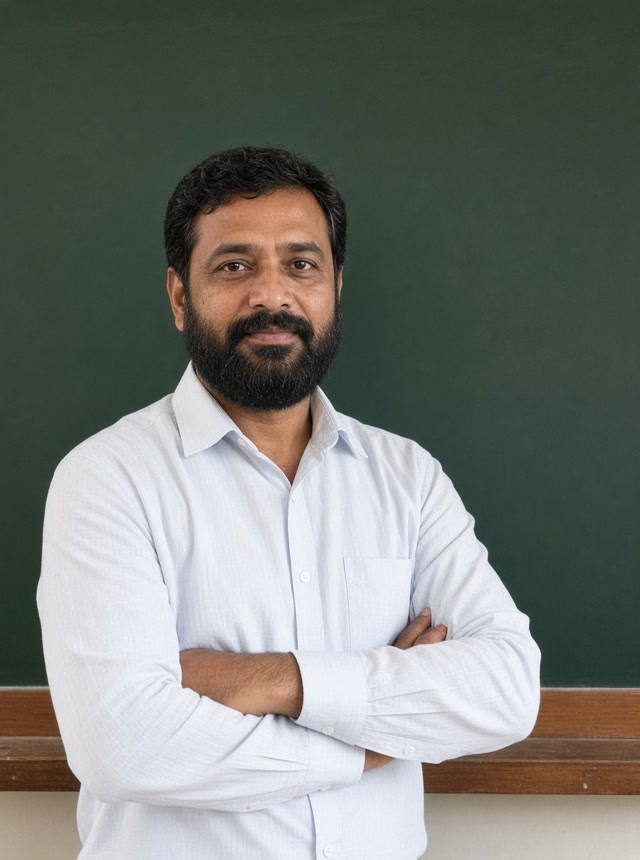
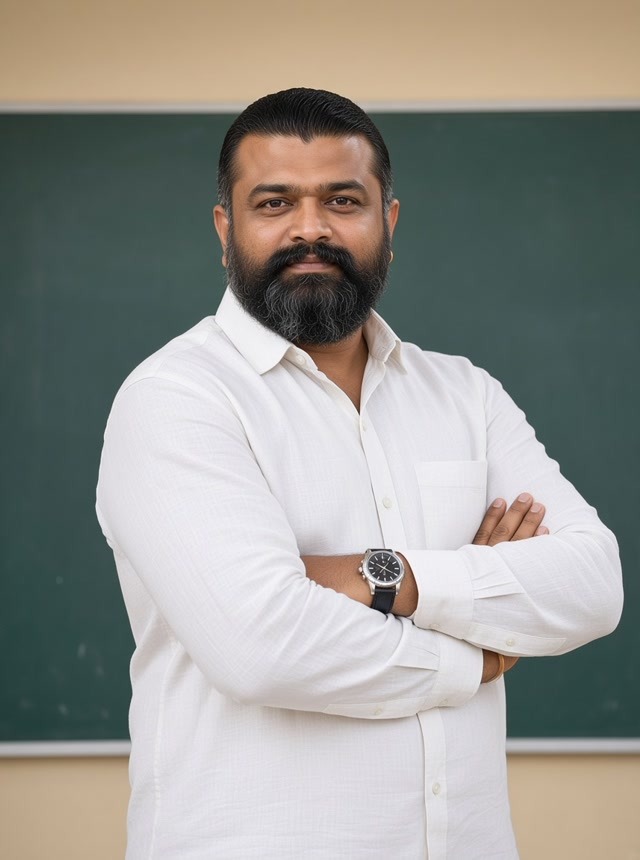
Refresh Aarav Mehta DP toward inspo skin realism (non-clone)
Replace the live portrait with a new mid-life Indian mentor photo matching inspo skin tone/phone realism while keeping a distinct face; bump cache to desk107 / v=4.

diff --git a/js/app.js b/js/app.js
@@ -808,7 +808,7 @@ const COVERS = {
 };
 
 const MENTORS = [
-  { name: "Aarav Mehta", role: "Full-time trader", tag: "Intraday", img: "/img/instructors/aarav-mehta.jpg?v=3" },
+  { name: "Aarav Mehta", role: "Full-time trader", tag: "Intraday", img: "/img/instructors/aarav-mehta.jpg?v=4" },
   { name: "Neha Kapoor", role: "Options specialist", tag: "Income strategies", img: "https://images.unsplash.com/photo-1544005313-94ddf0286df2?auto=format&fit=crop&w=640&h=860&q=80" },
   { name: "Vikram Singh", role: "Price action coach", tag: "Swing trading", img: "https://images.unsplash.com/photo-1506794778202-cad84cf45f1d?auto=format&fit=crop&w=640&h=860&q=80" },
   { name: "Ananya Rao", role: "Long-term investor", tag: "Portfolio", img: "https://images.unsplash.com/photo-1573496359142-b8d87734a5a2?auto=format&fit=crop&w=640&h=860&q=80" },
@@ -4893,6 +4893,7 @@ function traderIcon(kind) {
 /* cache-bust desk104: Aarav Mehta instructor DP /img/instructors/aarav-mehta.jpg?v=1 */
 /* cache-bust desk105: Aarav Mehta DP redo candidate-6 phone realism /img/instructors/aarav-mehta.jpg?v=2 */
 /* cache-bust desk106: Aarav Mehta DP beard+blackboard candidate-7 /img/instructors/aarav-mehta.jpg?v=3 */
+/* cache-bust desk107: Aarav Mehta DP inspo-vibe non-clone candidate-10 /img/instructors/aarav-mehta.jpg?v=4 */
 function traderCardHTML(m, i, opts = {}) {
   const title = String(m.role || m.tag || "Mentor").trim();
   const cloneAttrs = opts.clone ? ' tabindex="-1" aria-hidden="true"' : "";

diff --git a/account.html b/account.html
@@ -17,7 +17,7 @@
   <div id="site-header"></div>
   <main id="accountRoot" class="ld-page"></main>
   <div id="site-footer"></div>
-  <script src="/js/app.js?v=desk106" defer></script>
+  <script src="/js/app.js?v=desk107" defer></script>
   <script src="/js/lms.js?v=cert2" defer></script>
 </body>
 </html>

diff --git a/learning.html b/learning.html
@@ -17,7 +17,7 @@
   <div id="site-header"></div>
   <main id="myLearning" class="ld-page"></main>
   <div id="site-footer"></div>
-  <script src="/js/app.js?v=desk106" defer></script>
+  <script src="/js/app.js?v=desk107" defer></script>
   <script src="/js/lms.js?v=cert2" defer></script>
 </body>
 </html>

diff --git a/course.html b/course.html
@@ -22,7 +22,7 @@
     </div>
   </main>
   <div id="site-footer"></div>
-  <script src="/js/app.js?v=desk106" defer></script>
+  <script src="/js/app.js?v=desk107" defer></script>
   <script src="/js/lms.js?v=cert2" defer></script>
   <script src="/js/drm.js?v=desk29" defer></script>
 </body>

diff --git a/contact.html b/contact.html
@@ -48,7 +48,7 @@
   </main>
   <div id="site-footer"></div>
   <script src="/js/help-faqs.js?v=faq1" defer></script>
-  <script src="/js/app.js?v=desk106" defer></script>
+  <script src="/js/app.js?v=desk107" defer></script>
   <script src="/js/lms.js" defer></script>
 </body>
 </html>

diff --git a/certificate.html b/certificate.html
@@ -19,7 +19,7 @@
     <div id="certRoot"></div>
   </main>
   <div id="site-footer"></div>
-  <script src="/js/app.js?v=desk106" defer></script>
+  <script src="/js/app.js?v=desk107" defer></script>
   <script src="/js/lms.js?v=cert2" defer></script>
 </body>
 </html>

diff --git a/control.html b/control.html
@@ -253,7 +253,7 @@
         loading = true;
         busy(true);
         var files = [
-          "/js/app.js?v=desk106",
+          "/js/app.js?v=desk107",
           "/js/lms.js",
           "/js/admin-core.js?v=desk8",
           "/js/admin.js?v=drm5",

diff --git a/index.html b/index.html
@@ -415,7 +415,7 @@
     </section>
   </main>
   <div id="site-footer"></div>
-  <script src="/js/app.js?v=desk106" defer></script>
+  <script src="/js/app.js?v=desk107" defer></script>
   <script src="/js/lms.js?v=cert2" defer></script>
 </body>
 </html>

diff --git a/live-room.html b/live-room.html
@@ -22,7 +22,7 @@
 </head>
 <body class="live-room-page">
   <div id="liveRoom"></div>
-  <script src="/js/app.js?v=desk106" defer></script>
+  <script src="/js/app.js?v=desk107" defer></script>
   <script src="/js/lms.js" defer></script>
 </body>
 </html>

diff --git a/nifty-options.html b/nifty-options.html
@@ -44,7 +44,7 @@
     </section>
   </main>
   <div id="site-footer"></div>
-  <script src="/js/app.js?v=desk106" defer></script>
+  <script src="/js/app.js?v=desk107" defer></script>
   <script src="/js/lms.js?v=cert2" defer></script>
 </body>
 </html>

diff --git a/option-trading-course.html b/option-trading-course.html
@@ -44,7 +44,7 @@
     </section>
   </main>
   <div id="site-footer"></div>
-  <script src="/js/app.js?v=desk106" defer></script>
+  <script src="/js/app.js?v=desk107" defer></script>
   <script src="/js/lms.js?v=cert2" defer></script>
 </body>
 </html>

diff --git a/share-market-course-in-hindi.html b/share-market-course-in-hindi.html
@@ -42,7 +42,7 @@
     </section>
   </main>
   <div id="site-footer"></div>
-  <script src="/js/app.js?v=desk106" defer></script>
+  <script src="/js/app.js?v=desk107" defer></script>
   <script src="/js/lms.js?v=cert2" defer></script>
 </body>
 </html>
